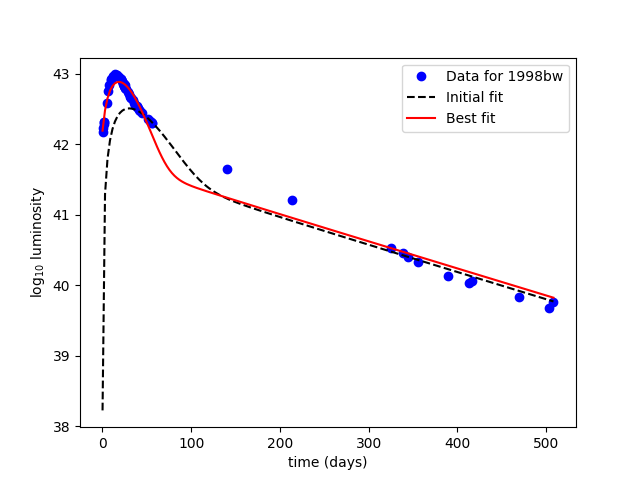
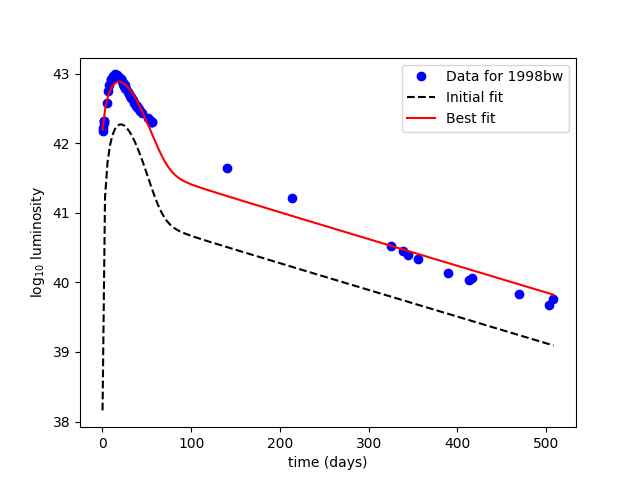
truncated 1991T

diff --git a/data_viewer.py b/data_viewer.py
@@ -21,6 +21,7 @@ files = [
     "data/1994I_bolom.txt",  # Type Ic
     "data/1994D_bolom.txt",   # Type Ia
     "data/1991T_bolom.txt",  # Type Ia
+    "data/1991T-mod_bolom.txt",  # Type Ia - removed very late time
 ]
 
 root = tk.Tk()
@@ -113,6 +114,10 @@ def do_plot(*args):
         res = _lc_maker(times, m_sun * float(m_value.get()), float(vsc_value.get()), m_sun * float(mni_value.get()),
                         float(shift_value.get()) * day2sec, kappa_func=kappa_nagy)
         print(res)
+        if res.count(np.inf) > 0 or res.count(np.nan) > 0:
+            alert['text'] = "Result contains some invalid values!\nSee list printed to console."
+        else:
+            alert['text'] = 'Ready.'
     except Warning as w:
         print(str(w))
         alert['text'] = f"Warning:\n{str(w)}"

diff --git a/main.py b/main.py
@@ -14,6 +14,7 @@ files = [
     "data/1994I_bolom.txt",  # Type Ic
     "data/1994D_bolom.txt",   # Type Ia
     "data/1991T_bolom.txt",  # Type Ia
+    "data/1991T-mod_bolom.txt",  # Type Ia - removed very late time
 ]
 
 for file in files:
